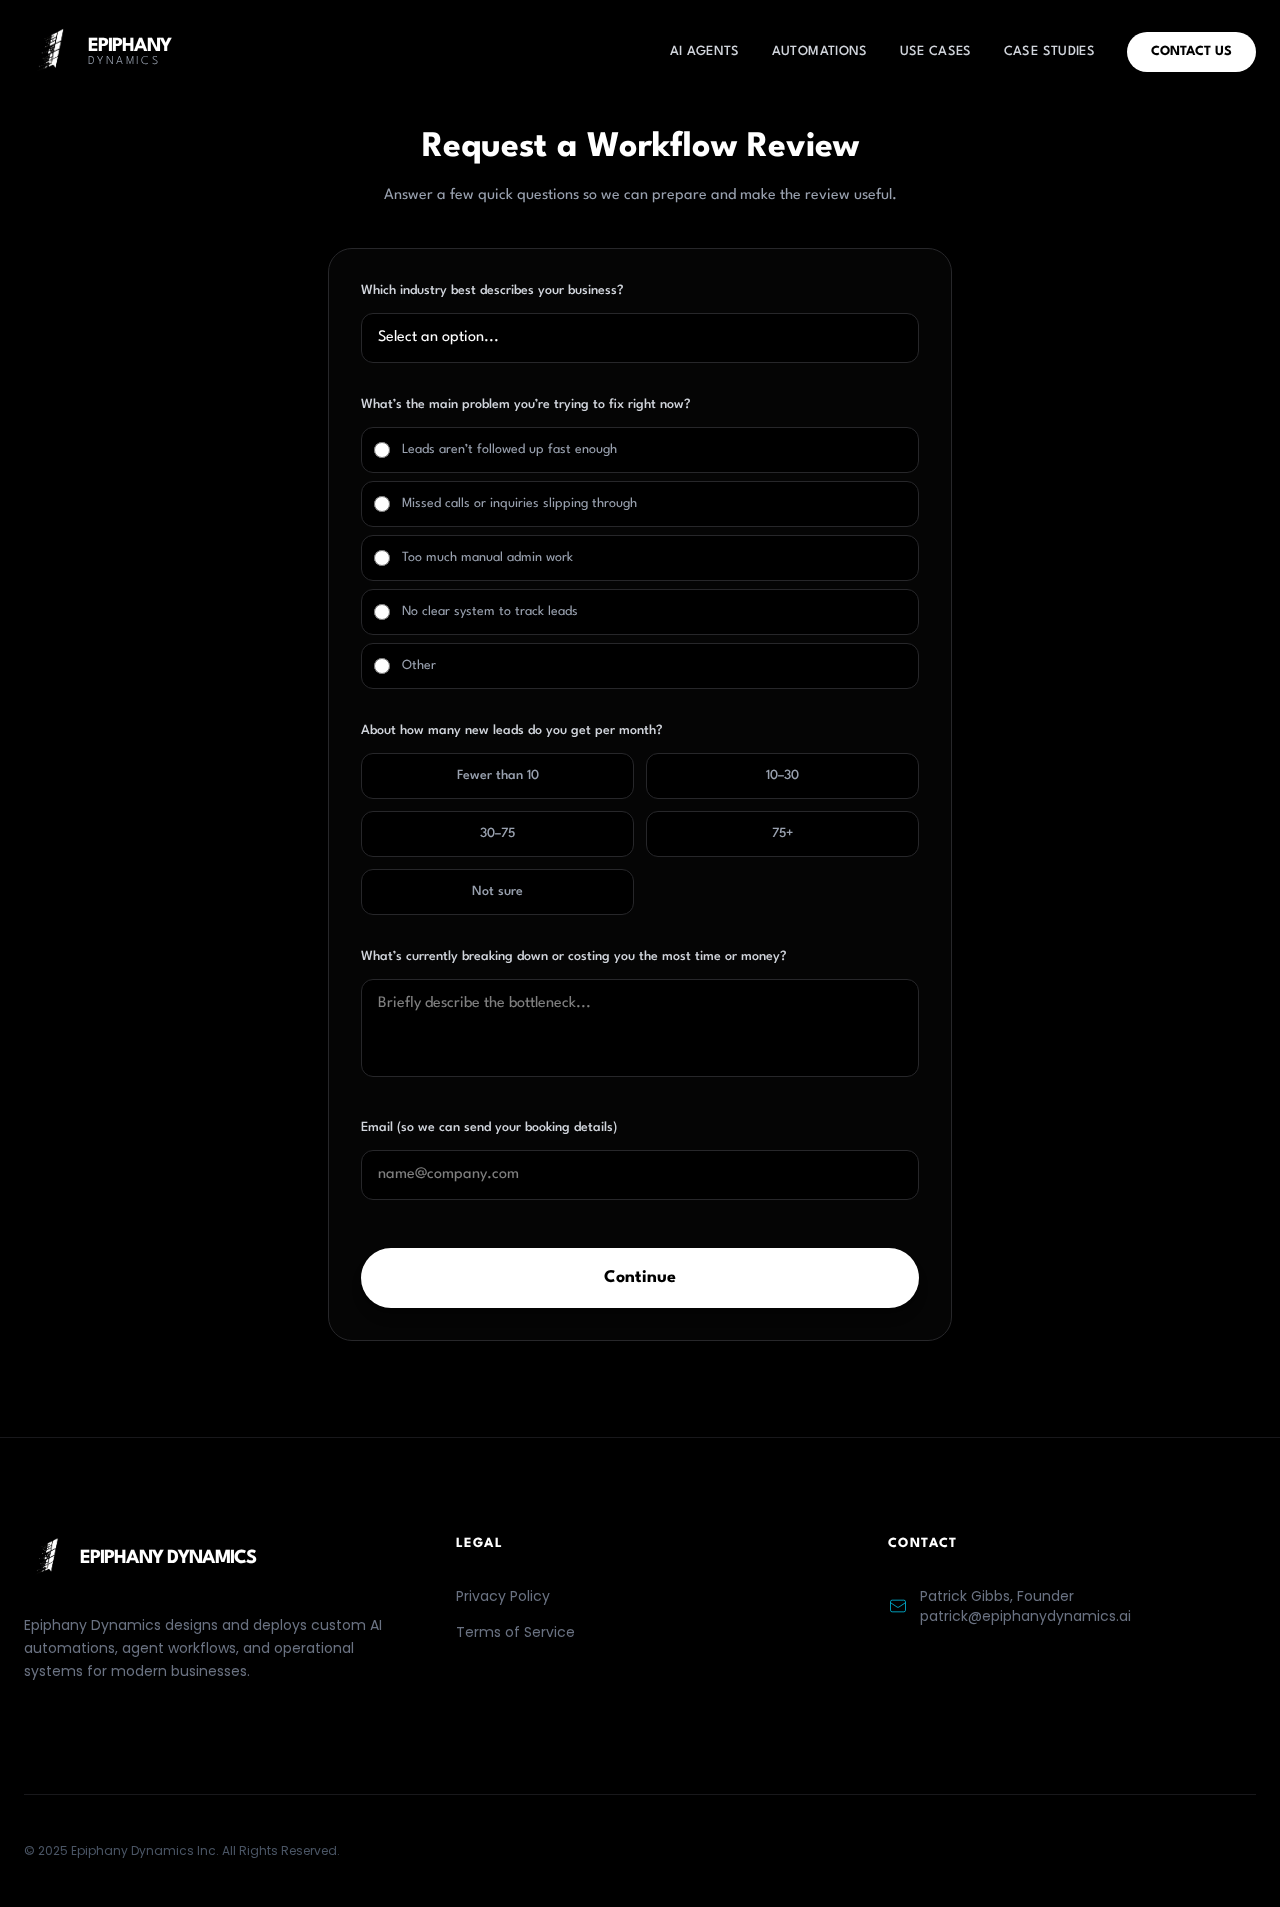
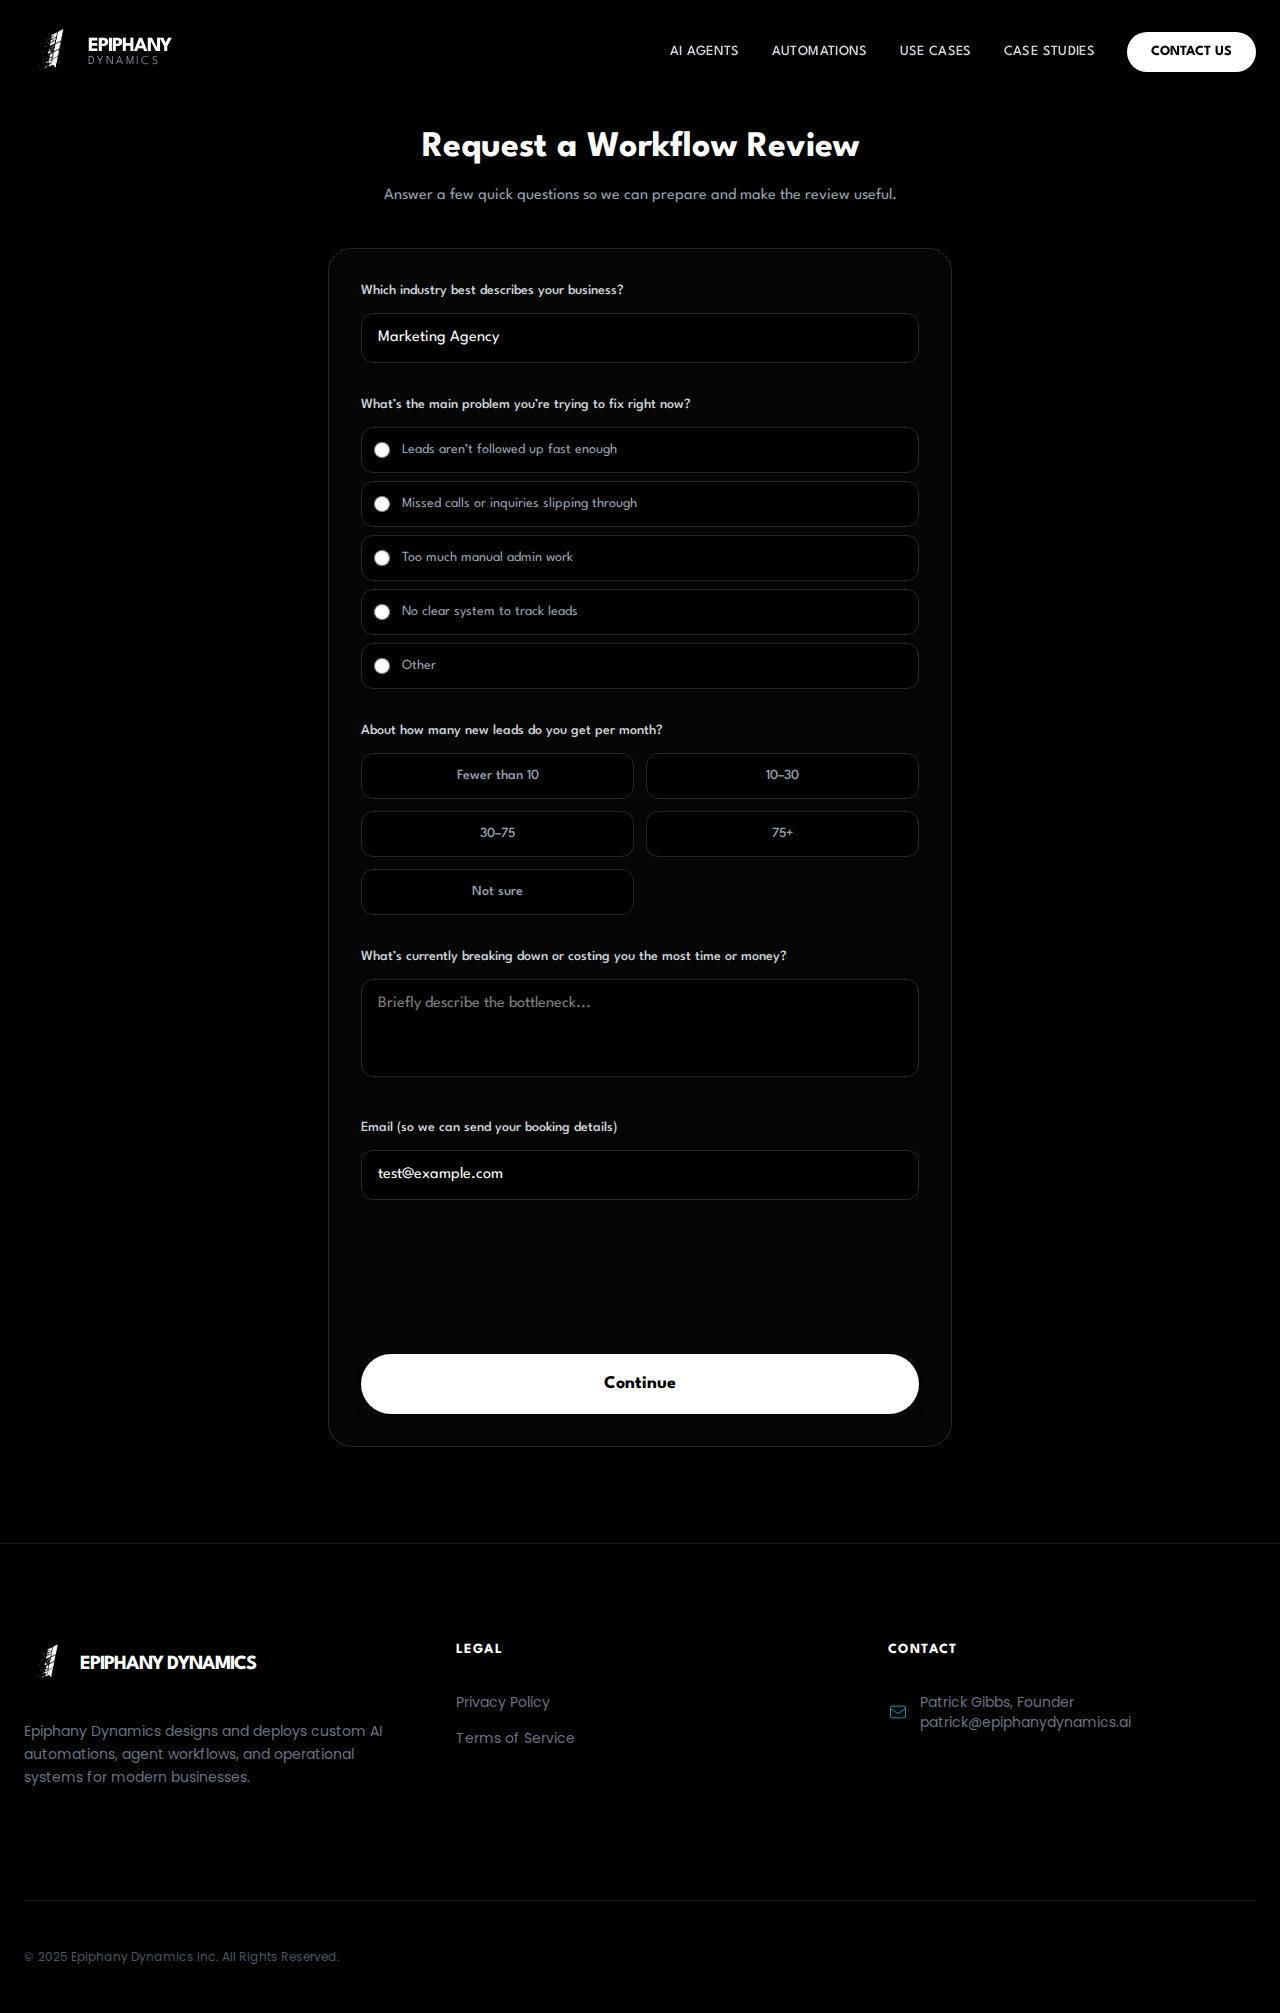
feat: add Turnstile, persistence, and redirect fix
- Add Cloudflare Turnstile to WorkflowReview form
- Implement localStorage persistence for form data
- Add public/_redirects for Netlify SPA routing
- Add VITE_TURNSTILE_SITE_KEY to .env

diff --git a/pages/WorkflowReview.tsx b/pages/WorkflowReview.tsx
@@ -1,22 +1,46 @@
-import React, { useState, useEffect } from 'react';
+import React, { useState, useEffect, useRef } from 'react';
+import Turnstile, { useTurnstile } from 'react-turnstile';
 import SelectField from '../components/ui/SelectField';
 import RadioGroup from '../components/ui/RadioGroup';
 import TextAreaField from '../components/ui/TextAreaField';
 import InputField from '../components/ui/InputField';
 
 const WorkflowReview: React.FC = () => {
-  const [submitted, setSubmitted] = useState(false);
+  const [submitted, setSubmitted] = useState(() => {
+    const saved = localStorage.getItem('workflowReviewSubmitted');
+    return saved === 'true';
+  });
   const [isSubmitting, setIsSubmitting] = useState(false);
   const [submissionError, setSubmissionError] = useState<string | null>(null);
-  const [formData, setFormData] = useState({
-    industry: '',
-    main_problem: '', // Renamed to match requirement
-    monthly_leads: '', // Renamed to match requirement
-    breakdown_cost: '', // Renamed to match requirement
-    email: '',
+  const [formData, setFormData] = useState(() => {
+    const saved = localStorage.getItem('workflowReviewData');
+    if (saved) {
+      try {
+        return JSON.parse(saved);
+      } catch (e) {
+        console.error('Error parsing saved form data', e);
+      }
+    }
+    return {
+      industry: '',
+      main_problem: '', // Renamed to match requirement
+      monthly_leads: '', // Renamed to match requirement
+      breakdown_cost: '', // Renamed to match requirement
+      email: '',
+    };
   });
 
+  useEffect(() => {
+    localStorage.setItem('workflowReviewSubmitted', String(submitted));
+  }, [submitted]);
+
+  useEffect(() => {
+    localStorage.setItem('workflowReviewData', JSON.stringify(formData));
+  }, [formData]);
+
   const [honeypot, setHoneypot] = useState('');
+  const [turnstileToken, setTurnstileToken] = useState('');
+  const turnstileRef = useRef(null);
 
   const [openFaqIndex, setOpenFaqIndex] = useState<number | null>(null);
 
@@ -84,6 +108,11 @@ const WorkflowReview: React.FC = () => {
       return;
     }
 
+    if (!turnstileToken) {
+      setSubmissionError('Please complete the security check.');
+      return;
+    }
+
     const industry = (formElements.get('industry') as string) || formData.industry;
     const main_problem = (formElements.get('main_problem') as string) || formData.main_problem;
     const monthly_leads = (formElements.get('monthly_leads') as string) || formData.monthly_leads;
@@ -142,6 +171,11 @@ const WorkflowReview: React.FC = () => {
     } catch (error) {
       console.error('Webhook submission failed', error);
       setSubmissionError('Something went wrong. Please check your connection and try again.');
+      if (turnstileRef.current) {
+        // @ts-ignore
+        turnstileRef.current.reset();
+      }
+      setTurnstileToken('');
     } finally {
       setIsSubmitting(false);
     }
@@ -355,6 +389,17 @@ const WorkflowReview: React.FC = () => {
               onChange={(e) => setHoneypot(e.target.value)}
               tabIndex={-1}
               autoComplete="off"
+            />
+          </div>
+
+          <div className="mt-6 flex justify-center md:justify-start">
+            <Turnstile
+              ref={turnstileRef}
+              sitekey={import.meta.env.VITE_TURNSTILE_SITE_KEY || '1x00000000000000000000AA'}
+              onVerify={(token) => setTurnstileToken(token)}
+              onError={() => setSubmissionError('Security check failed. Please try again.')}
+              onExpire={() => setTurnstileToken('')}
+              theme="dark"
             />
           </div>
 

diff --git a/verification/verify_turnstile.py b/verification/verify_turnstile.py
@@ -1,0 +1,56 @@
+from playwright.sync_api import sync_playwright
+
+def verify_workflow_review():
+    with sync_playwright() as p:
+        browser = p.chromium.launch(headless=True)
+        page = browser.new_page()
+
+        page.on("console", lambda msg: print(f"Console: {msg.text}"))
+
+        try:
+            # Navigate to Workflow Review page
+            page.goto("http://localhost:4173/workflow-review")
+
+            # Verify page loaded
+            page.wait_for_selector('h1:has-text("Request a Workflow Review")', timeout=5000)
+
+            # Fill some form data to test persistence
+            print("Filling form...")
+            page.select_option('select[name="industry"]', 'Marketing Agency')
+            page.fill('input[name="email"]', 'test@example.com')
+
+            # Wait a bit for state to save to localStorage
+            page.wait_for_timeout(1000)
+
+            # Reload page
+            print("Reloading page...")
+            page.reload()
+
+            # Verify persistence
+            page.wait_for_selector('select[name="industry"]', timeout=5000)
+
+            # Check if values persisted
+            industry = page.input_value('select[name="industry"]')
+            email = page.input_value('input[name="email"]')
+
+            print(f"Persisted Industry: {industry}")
+            print(f"Persisted Email: {email}")
+
+            if industry == 'Marketing Agency' and email == 'test@example.com':
+                print("PERSISTENCE SUCCESS")
+            else:
+                print("PERSISTENCE FAILED")
+
+            # Check Turnstile
+            print("Checking Turnstile...")
+            # Just take a screenshot to verify visually
+            page.wait_for_timeout(2000) # Give it time to render
+
+        except Exception as e:
+            print(f"Error: {e}")
+        finally:
+            page.screenshot(path="verification/workflow_review.png", full_page=True)
+            browser.close()
+
+if __name__ == "__main__":
+    verify_workflow_review()
